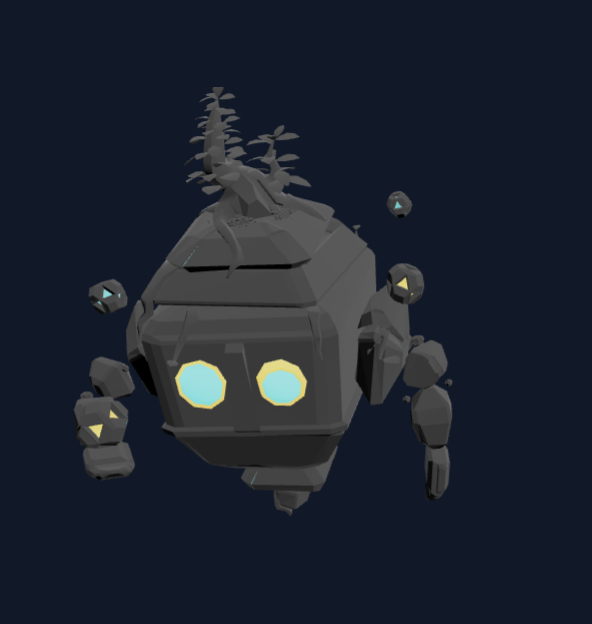
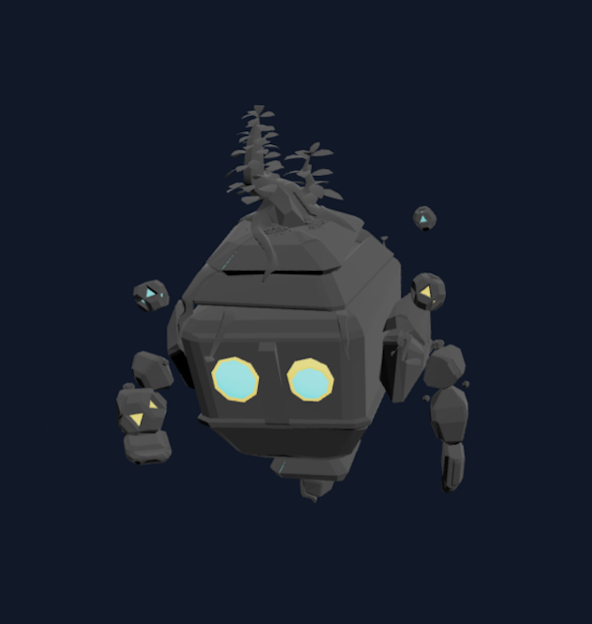
Changed project info animation, and many other improvements to the Projects page

Changed region(s): [[0.1216, 0.1218, 0.7905, 0.8221], [0.6385, 0.3045, 0.7601, 0.3654]]

diff --git a/src/components/ProjectSection.tsx b/src/components/ProjectSection.tsx
@@ -1,9 +1,11 @@
+
 'use client';
 
-import { useState, Suspense, useEffect } from 'react';
+import { useState, Suspense, useEffect, useRef } from 'react';
 import { motion, AnimatePresence } from 'framer-motion';
 import { Project } from '@/lib/projects';
 import ProjectModel from '@/components/ProjectModel';
+import Image from 'next/image';
 
 interface ProjectSectionProps {
   project: Project;
@@ -13,6 +15,9 @@ export default function ProjectSection({ project }: ProjectSectionProps) {
   const [isExpanded, setIsExpanded] = useState(false);
   const [isDesktop, setIsDesktop] = useState(false);
   const [prefetch, setPrefetch] = useState(false);
+  const [showBackdrop, setShowBackdrop] = useState(false);
+  const wrapperRef = useRef<HTMLDivElement | null>(null);
+  const [fullScale, setFullScale] = useState(1.6);
 
   useEffect(() => {
     const mq = window.matchMedia('(min-width: 768px)');
@@ -49,6 +54,42 @@ export default function ProjectSection({ project }: ProjectSectionProps) {
     return () => obs.disconnect();
   }, [project.slug]);
 
+  // Phase control: after zoom-in completes, reveal backdrop; on close, hide backdrop then zoom out
+  useEffect(() => {
+    let timer: any;
+    if (isExpanded) {
+      timer = setTimeout(() => setShowBackdrop(true), 550); // reveal image backdrop slightly after zoom
+    } else {
+      setShowBackdrop(false);
+    }
+    return () => clearTimeout(timer);
+  }, [isExpanded]);
+
+  // When expanded, compute a scale factor that visually fills the viewport
+  useEffect(() => {
+    if (!isExpanded) return;
+    function compute() {
+      const el = wrapperRef.current;
+      if (!el) return;
+      const rect = el.getBoundingClientRect();
+      const vw = window.innerWidth;
+      const vh = window.innerHeight;
+      const scaleX = vw / Math.max(1, rect.width);
+      const scaleY = vh / Math.max(1, rect.height);
+      const s = Math.max(scaleX, scaleY) * 1.02; // tiny overscan
+      setFullScale(s);
+    }
+    compute();
+    window.addEventListener('resize', compute);
+    return () => window.removeEventListener('resize', compute);
+  }, [isExpanded]);
+
+  function handleClose() {
+    // hide backdrop first, then zoom out
+    setShowBackdrop(false);
+    setTimeout(() => setIsExpanded(false), 450);
+  }
+
   return (
     <section
       id={project.slug}
@@ -57,20 +98,12 @@ export default function ProjectSection({ project }: ProjectSectionProps) {
     >
       
       <motion.div
-        className="relative md:absolute h-[40vh] md:h-[60%] w-full md:w-[30%] cursor-pointer z-0"
-        onClick={() => setIsExpanded(!isExpanded)}
-        animate={
-          isDesktop
-            ? {
-                left: isExpanded ? '5%' : '50%',
-                x: isExpanded ? '0%' : '-50%',
-                top: '50%',
-                y: '-50%',
-              }
-            : { x: 0, y: 0 }
-        }
-        transition={{ duration: 0.8, ease: [0.76, 0, 0.24, 1] }}
-        layout
+        className="relative h-[48vh] md:h-[65vh] w-[88vw] md:w-[42%] max-w-[780px] cursor-pointer z-0"
+        style={{ margin: '0 auto' }}
+        ref={wrapperRef}
+        onClick={() => setIsExpanded(prev => !prev)}
+        animate={{ y: isExpanded ? 0 : -70, scale: isExpanded ? fullScale : 1, filter: isExpanded ? 'blur(1px)' : 'blur(0px)' }}
+        transition={{ duration: 0.9, ease: [0.5, 1, 0.2, 1] }}
       >
         {project.heroModel ? (
           <Suspense fallback={<div className="text-white w-full h-full flex items-center justify-center">Loading 3D model...</div>}>
@@ -82,6 +115,7 @@ export default function ProjectSection({ project }: ProjectSectionProps) {
               enableZoom={false} 
               enablePan={false} 
               enableRotate={false} 
+              focused={isExpanded}
               prefetch={prefetch}
             />
           </Suspense>
@@ -93,24 +127,57 @@ export default function ProjectSection({ project }: ProjectSectionProps) {
       </motion.div>
 
       <AnimatePresence>
-        {isExpanded && (
+        {showBackdrop && (
           <motion.div
-            className="relative z-10 w-full md:w-[40%] mt-4 md:mt-0 md:absolute md:right-[5%] md:top-1/2 md:-translate-y-[70%] text-white p-3 md:p-12 h-auto md:h-full md:grid md:grid-rows-[1fr_auto_1fr] md:items-start"
+            key="backdrop"
+            className="fixed inset-0 z-20"
             initial={{ opacity: 0 }}
             animate={{ opacity: 1 }}
             exit={{ opacity: 0 }}
-            transition={{ duration: 0.5, delay: 0.2 }}
+            transition={{ duration: 0.35 }}
           >
-            <h2 className="font-serif text-3xl md:text-5xl font-bold mb-4 text-center md:text-left md:row-start-2">{project.name}</h2>
-            <div className="text-gray-300 mb-6 text-center md:text-left md:row-start-3">
-              {project.summary}
+            {/* Background image stage with themed backdrop color */}
+            <div className="absolute inset-0 overflow-hidden">
+              {/* Base backdrop color close to the reference screenshot */}
+              <div className="absolute inset-0 bg-[#111727]" />
+              {/* Foreground image, slightly inset */}
+              <Image
+                src={`/images/${(project as any).heroModel || project.slug.replace(/-/g, '_')}.png`}
+                alt={project.name}
+                fill
+                className="relative object-contain p-10 md:p-16 lg:p-24"
+                priority
+              />
             </div>
-            <div className="prose prose-invert text-gray-400 text-center md:text-left md:row-start-3">
-              <ul>
-                {project.moreInfo.map((point, index) => (
-                  <li key={index}>{point}</li>
-                ))}
-              </ul>
+
+            {/* Content card */}
+            <div className="absolute inset-0 flex items-center justify-center p-4 md:p-10">
+              <motion.div
+                className="relative w-full max-w-3xl bg-black/60 border border-white/10 rounded-2xl p-6 md:p-10 text-white shadow-2xl"
+                initial={{ y: 20, opacity: 0 }}
+                animate={{ y: 0, opacity: 1 }}
+                exit={{ y: 20, opacity: 0 }}
+                transition={{ duration: 0.35, ease: [0.22, 1, 0.36, 1] }}
+              >
+                <button
+                  className="absolute top-4 right-4 text-white/60 hover:text-white text-sm md:text-base"
+                  onClick={handleClose}
+                  aria-label="Close"
+                >
+                  Close
+                </button>
+                <h2 className="font-serif text-3xl md:text-5xl font-bold mb-4 text-center">{project.name}</h2>
+                <div className="text-gray-300 mb-6 text-center">
+                  {project.summary}
+                </div>
+                <div className="prose prose-invert text-gray-400 mx-auto">
+                  <ul>
+                    {project.moreInfo.map((point, index) => (
+                      <li key={index}>{point}</li>
+                    ))}
+                  </ul>
+                </div>
+              </motion.div>
             </div>
           </motion.div>
         )}

diff --git a/src/components/ProjectModel.tsx b/src/components/ProjectModel.tsx
@@ -1,8 +1,10 @@
 'use client';
 
-import { Canvas } from '@react-three/fiber';
+import { Canvas, useFrame, useThree } from '@react-three/fiber';
 import { useGLTF, OrbitControls } from '@react-three/drei';
-import { useEffect, useState } from 'react';
+import { useEffect, useMemo, useRef, useState } from 'react';
+import { EffectComposer, ChromaticAberration, Noise, Vignette, Glitch, Bloom, DepthOfField } from '@react-three/postprocessing'
+import * as THREE from 'three'
 import { useInView } from 'react-intersection-observer';
 
 interface ProjectModelProps {
@@ -14,6 +16,8 @@ interface ProjectModelProps {
   enablePan?: boolean;
   enableRotate?: boolean;
   prefetch?: boolean;
+  focused?: boolean;
+  interactiveTilt?: boolean;
 }
 
 function Model({ modelName }: { modelName: string }) {
@@ -29,7 +33,9 @@ export default function ProjectModel({
   enableZoom = true, 
   enablePan = true, 
   enableRotate = true,
-  prefetch = false 
+  prefetch = false,
+  focused = false,
+  interactiveTilt = true
 }: ProjectModelProps) {
   const [availability, setAvailability] = useState<'checking' | 'available' | 'missing'>('checking');
   const { ref, inView } = useInView({ threshold: 0.1, rootMargin: '200px 0px' });
@@ -89,13 +95,14 @@ export default function ProjectModel({
         </div>
       )}
       {shouldRender && (
-         <Canvas dpr={[1, 2]} camera={{ position: cameraPosition, fov: 30 }} style={{ touchAction: 'pan-y', pointerEvents: canHover ? 'auto' : 'none' }}>
+         <Canvas dpr={[1, 2]} camera={{ position: cameraPosition, fov: 26 }} style={{ touchAction: 'pan-y', pointerEvents: canHover ? 'auto' : 'none' }}>
           <ambientLight intensity={1.5} />
           <directionalLight position={[10, 10, 5]} intensity={1} />
           <directionalLight position={[-10, -10, -5]} intensity={0.5} />
-          <group rotation={modelRotation} position={modelOffset}>
-            <Model modelName={modelName} />
-          </group>
+           <FocusController focused={focused} basePosition={cameraPosition} />
+           <TiltGroup baseRotation={modelRotation} position={modelOffset} enabled={interactiveTilt && canHover}>
+             <Model modelName={modelName} />
+           </TiltGroup>
            {canHover && (
              <OrbitControls 
               enableZoom={enableZoom} 
@@ -105,8 +112,66 @@ export default function ProjectModel({
               autoRotateSpeed={0.5}
             />
            )}
+           {focused && (
+             <EffectComposer>
+               {/* Stronger chroma split */}
+               <ChromaticAberration offset={new THREE.Vector2(0.01, 0.01)} radialModulation modulationOffset={0.15} />
+               {/* Subtle bloom to lift highlights */}
+               <Bloom intensity={1.1} luminanceThreshold={0.2} luminanceSmoothing={0.7} />
+               {/* Mild film grain */}
+               <Noise premultiply opacity={0.25} />
+               {/* Optional camera DOF hint */}
+               <DepthOfField focusDistance={0.02} focalLength={0.02} bokehScale={1.5} />
+               {/* Gentle continuous glitch shimmer */}
+               <Glitch delay={new THREE.Vector2(0.1, 0.2)} duration={new THREE.Vector2(0.6, 1.0)} strength={new THREE.Vector2(0.1, 0.2)} />
+               <Vignette eskil={false} offset={0.1} darkness={0.75} />
+             </EffectComposer>
+           )}
         </Canvas>
       )}
     </div>
   );
+}
+
+function FocusController({ focused, basePosition }: { focused: boolean; basePosition: [number, number, number] }) {
+  const { camera } = useThree()
+  useFrame((_, dt) => {
+    const targetFov = focused ? 10 : 26 // much tighter when focused
+    const t = Math.min(1, dt * 3.5)
+    // Lerp FOV
+    ;(camera as THREE.PerspectiveCamera).fov = THREE.MathUtils.lerp(
+      (camera as THREE.PerspectiveCamera).fov,
+      targetFov,
+      t
+    )
+    // Move slightly closer when focused
+    const base = new THREE.Vector3(...basePosition)
+    const focusedPos = base.clone().multiplyScalar(0.45)
+    camera.position.lerp(focused ? focusedPos : base, t)
+    ;(camera as THREE.PerspectiveCamera).updateProjectionMatrix()
+  })
+  return null
+}
+
+function TiltGroup({ children, baseRotation, position, enabled }: { children: React.ReactNode; baseRotation: [number, number, number]; position?: [number, number, number]; enabled: boolean }) {
+  const ref = useRef<THREE.Group>(null)
+  const { size, viewport, mouse } = useThree()
+  const base = useMemo(() => new THREE.Euler(baseRotation[0], baseRotation[1], baseRotation[2]), [baseRotation])
+  useFrame((_, dt) => {
+    const g = ref.current
+    if (!g) return
+    // Target small tilt based on mouse position in NDC
+    const maxTilt = 0.15 // radians (~8.6deg)
+    const tx = enabled ? THREE.MathUtils.clamp(mouse.y * -maxTilt, -maxTilt, maxTilt) : 0
+    const ty = enabled ? THREE.MathUtils.clamp(mouse.x * maxTilt, -maxTilt, maxTilt) : 0
+    const targetX = base.x + tx
+    const targetY = base.y + ty
+    g.rotation.x = THREE.MathUtils.lerp(g.rotation.x, targetX, Math.min(1, dt * 4))
+    g.rotation.y = THREE.MathUtils.lerp(g.rotation.y, targetY, Math.min(1, dt * 4))
+  })
+  return (
+    <group ref={ref} rotation={base} position={position}>
+      {children}
+    </group>
+  )
 }
